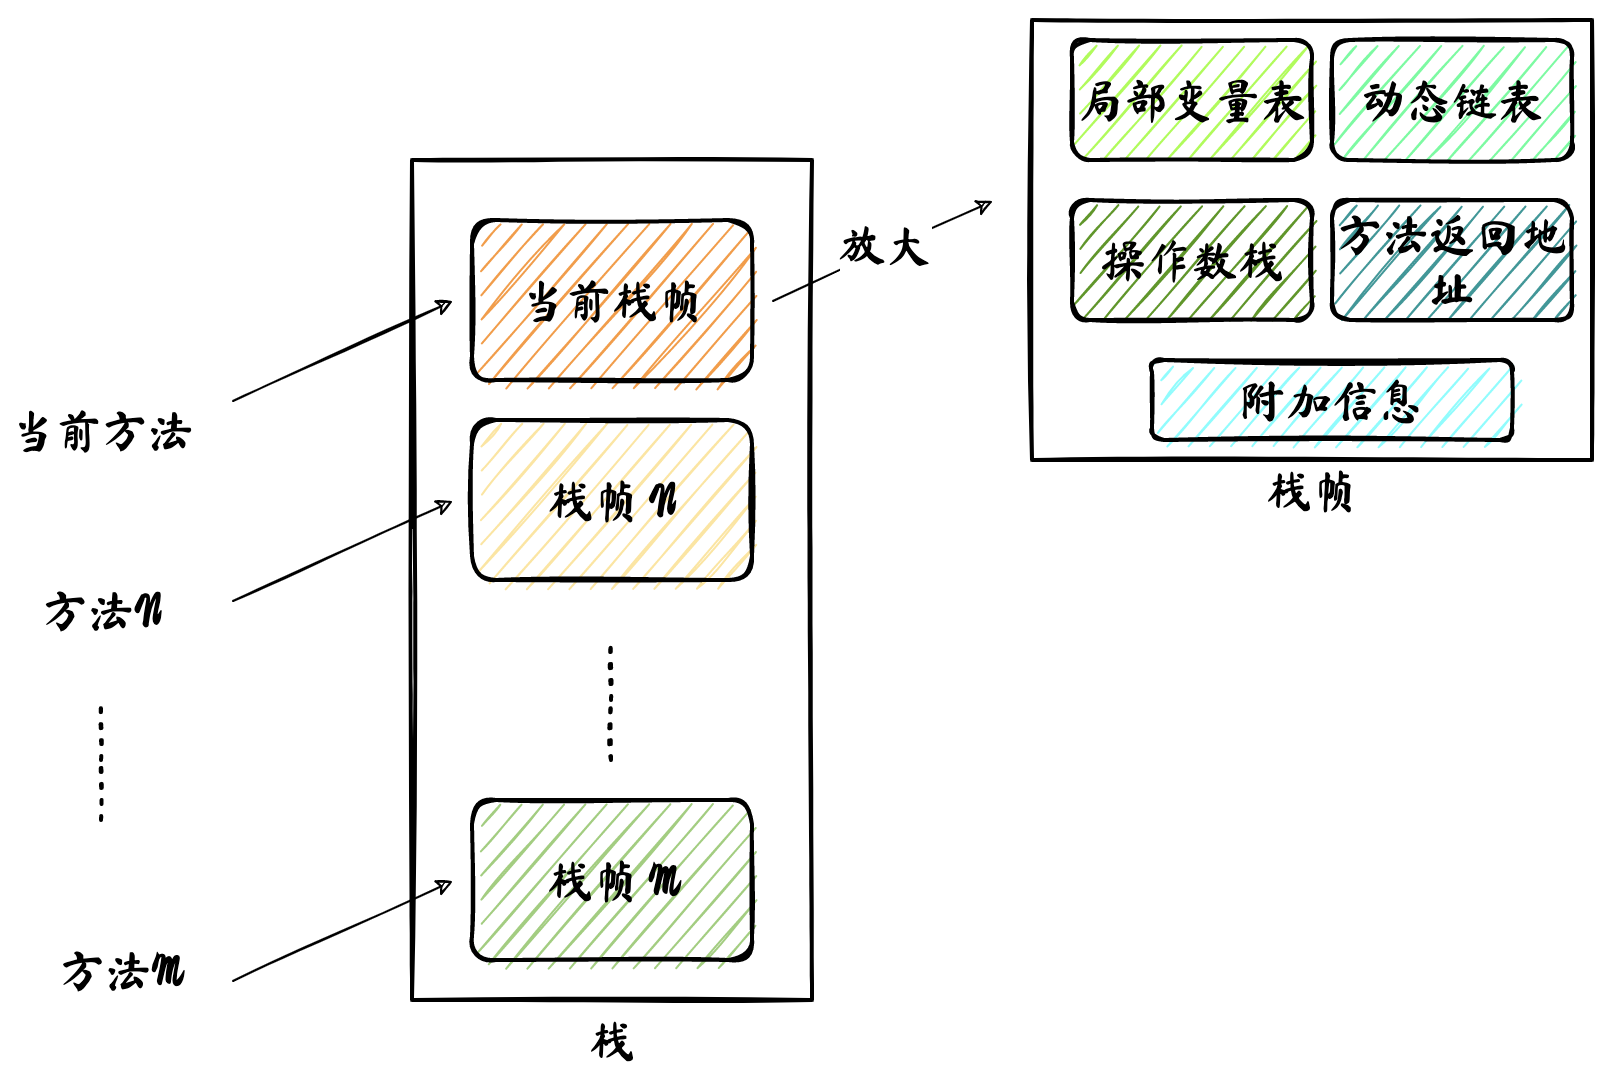
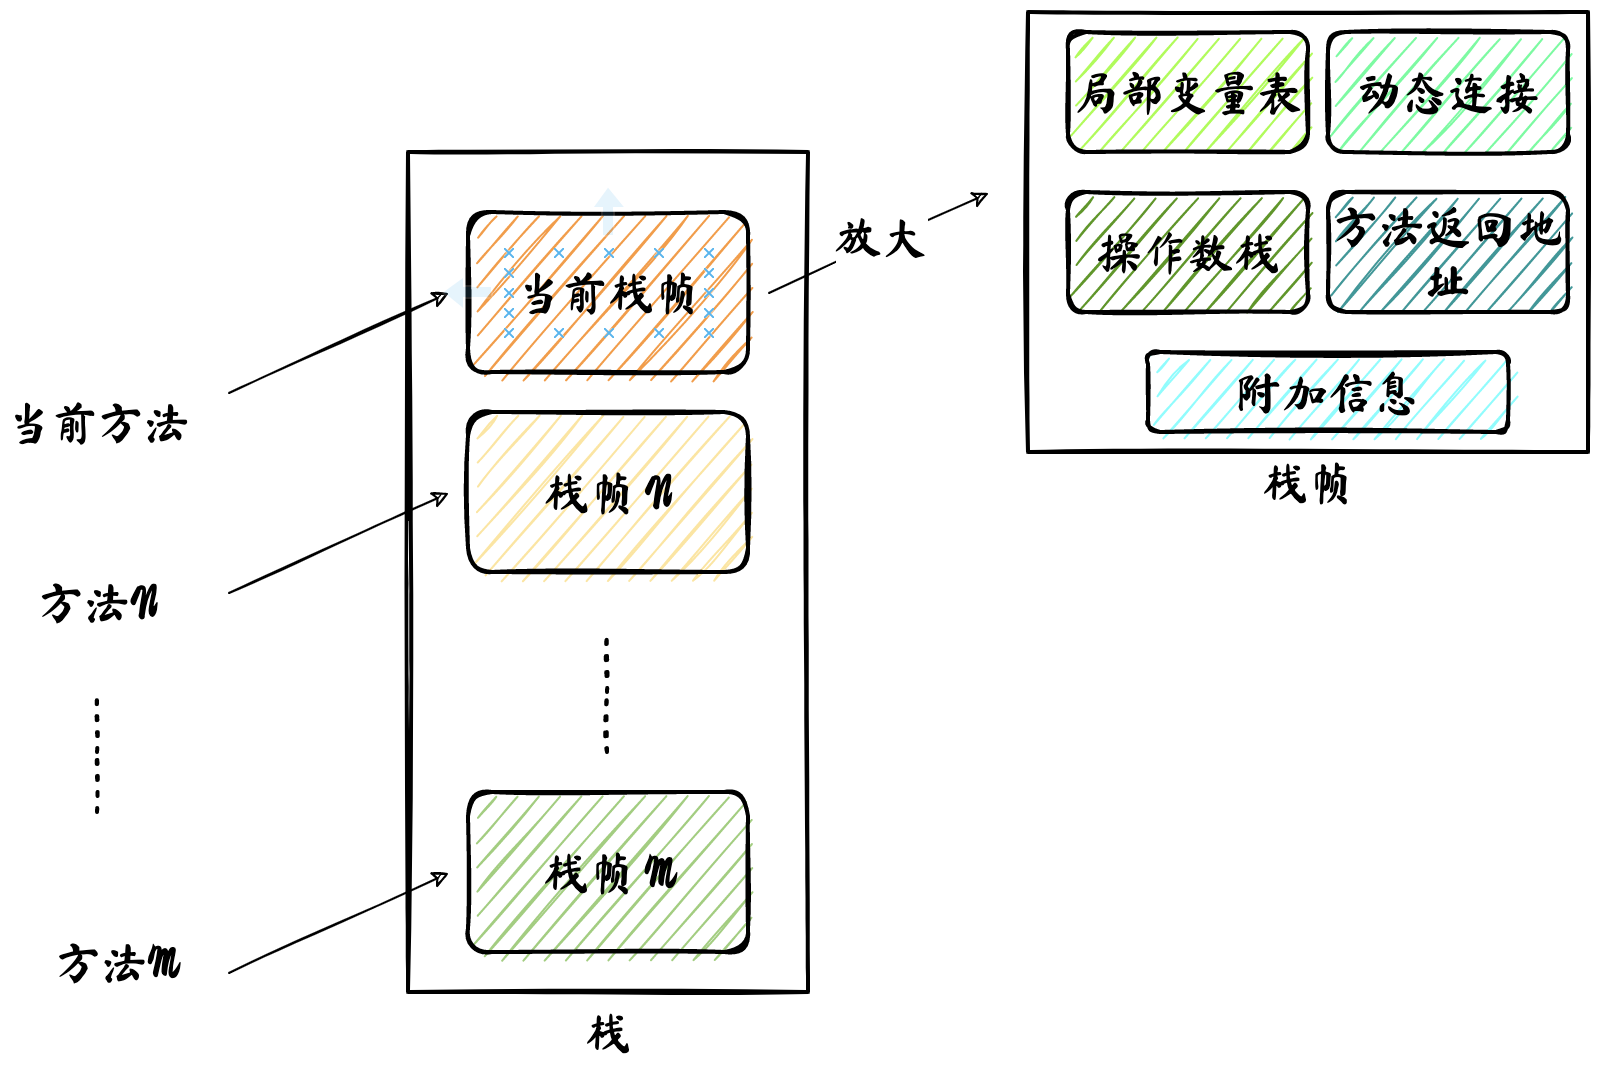
add statck info png 2

diff --git a/一个单例的蝴蝶效应.md b/一个单例的蝴蝶效应.md
@@ -293,6 +293,18 @@ public class TestClassLoader {
 4. 方法返回地址
 5. 一些附加信息
 
+![stack_info](https://github.com/bboysun/DOC_CENTER/raw/master/image/statck_info.png)
+
+在简单说明栈帧中存储的信息时，可以类比的想一想我们平时写的一个方法，是不是都有些许影子。
+
+**局部变量表** 是一组变量值的存储空间，主要存储了方法内定义的局部变量（有基本数据类型：`boolean byte char short int long double float`, 还有对象引用），方法参数以及方法返回`return address`类型。局部变量表所属的栈是线程私有的所以不会有线程安全的问题。局部变量表大存储大小和对应的方法参数等都有关系，如果一个方法对应的局部变量表越大，那么这个方法在同一个线程的栈中能够被调用的次数就越小。局部变量表只会在当前方法调用过程中有效，随着当前方法执行完成，当前栈帧也就随之销毁，栈帧中的局部变量表也会随之销毁。局部变量表也会作为垃圾回收的根结点，但凡一个对象直接或者间接被局部变量表引用，那么这个对象就不能被回收。
+
+局部变量表是以`slot`为单位存储的，32位以内的类型都是有1个`slot`进行存储，64位的类型则是用2个连续的`slot`进行存储。如果当前栈帧对应到类的构造函数或者一个类的具体实例方法，那么这个对象实例的`this`会放到`index`为0的`slot`中，这也就是为什么我们在构造函数中可以使用`this`这个关键字，而在`static`方法中的局部变量表中不含有`this`变量，所以静态方法就无法使用`this`关键字。当然局部变量表中的`slot`是可以复用的，一个局部变量过了其作用域后，后续再申请的局部变量是可以申请到之前释放的`slot`进行变量存储的。
+
+**操作数栈** 是一个先进后出的栈，也称为表达式栈，主要对方法内部的一些局部变量作入栈和出栈操作，通过入栈暂存变量，然后再在合适的时机出栈取出，进行表达式逻辑计算后，再将结果入栈为后续操作使用，如此反复来完成一个复杂的表达式逻辑。如果当前栈帧对应的方法有返回值的话，那么返回值最终就会被压入操作数栈中。
+
+**动态连接**  是指向常量池中该栈帧对应方法的一个引用。可以理解为类`class B`的方法`methond B`中调用类`class A`的方法`method A`时，就是通过常量池中的这个引用找到对应的方法。`java`源文件被编译成字节码文件后，都是以符号引用保存在class文件的常量池中的，也就是说动态连接是为了将符号引用转换为真正的被调方法的直接引用而存在的。
+
 
 
 
